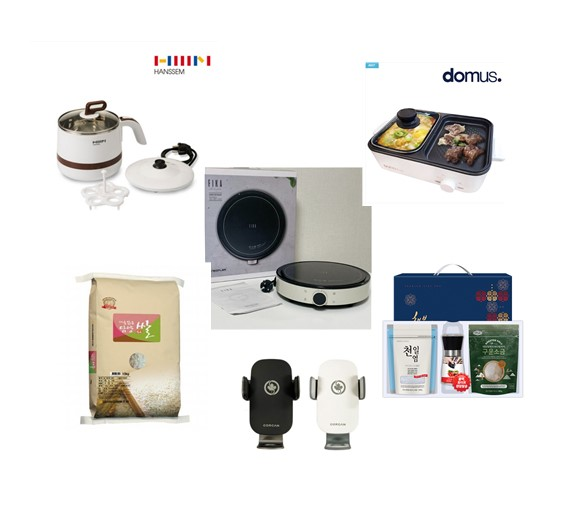
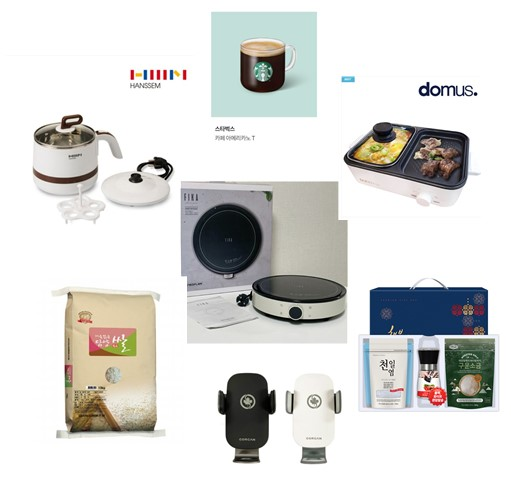
img ch

diff --git a/event.html b/event.html
@@ -185,7 +185,7 @@
                 <div class="coupontitle">    
                     ✔ 신협 보험(공제)가입 이벤트 시행 중<br/>
                         📆 기간: 3월2일 ~ 31일  <br/>
-                        🎁 사은품 3종(택3~택1, 선착순) 지급 </div><br/>
+                        🎁 스벅모바일쿠폰(간편설계 신청), 사은품 3종(택3~택1, 선착순) 지급 </div><br/>
                 <img src="img/event_2022_03.jpg">        
                 <div class="coupontitle">    
                      ✔ 세븐일레븐 과일코너 오픈 기념 🥗과일컵 증정<br/>
